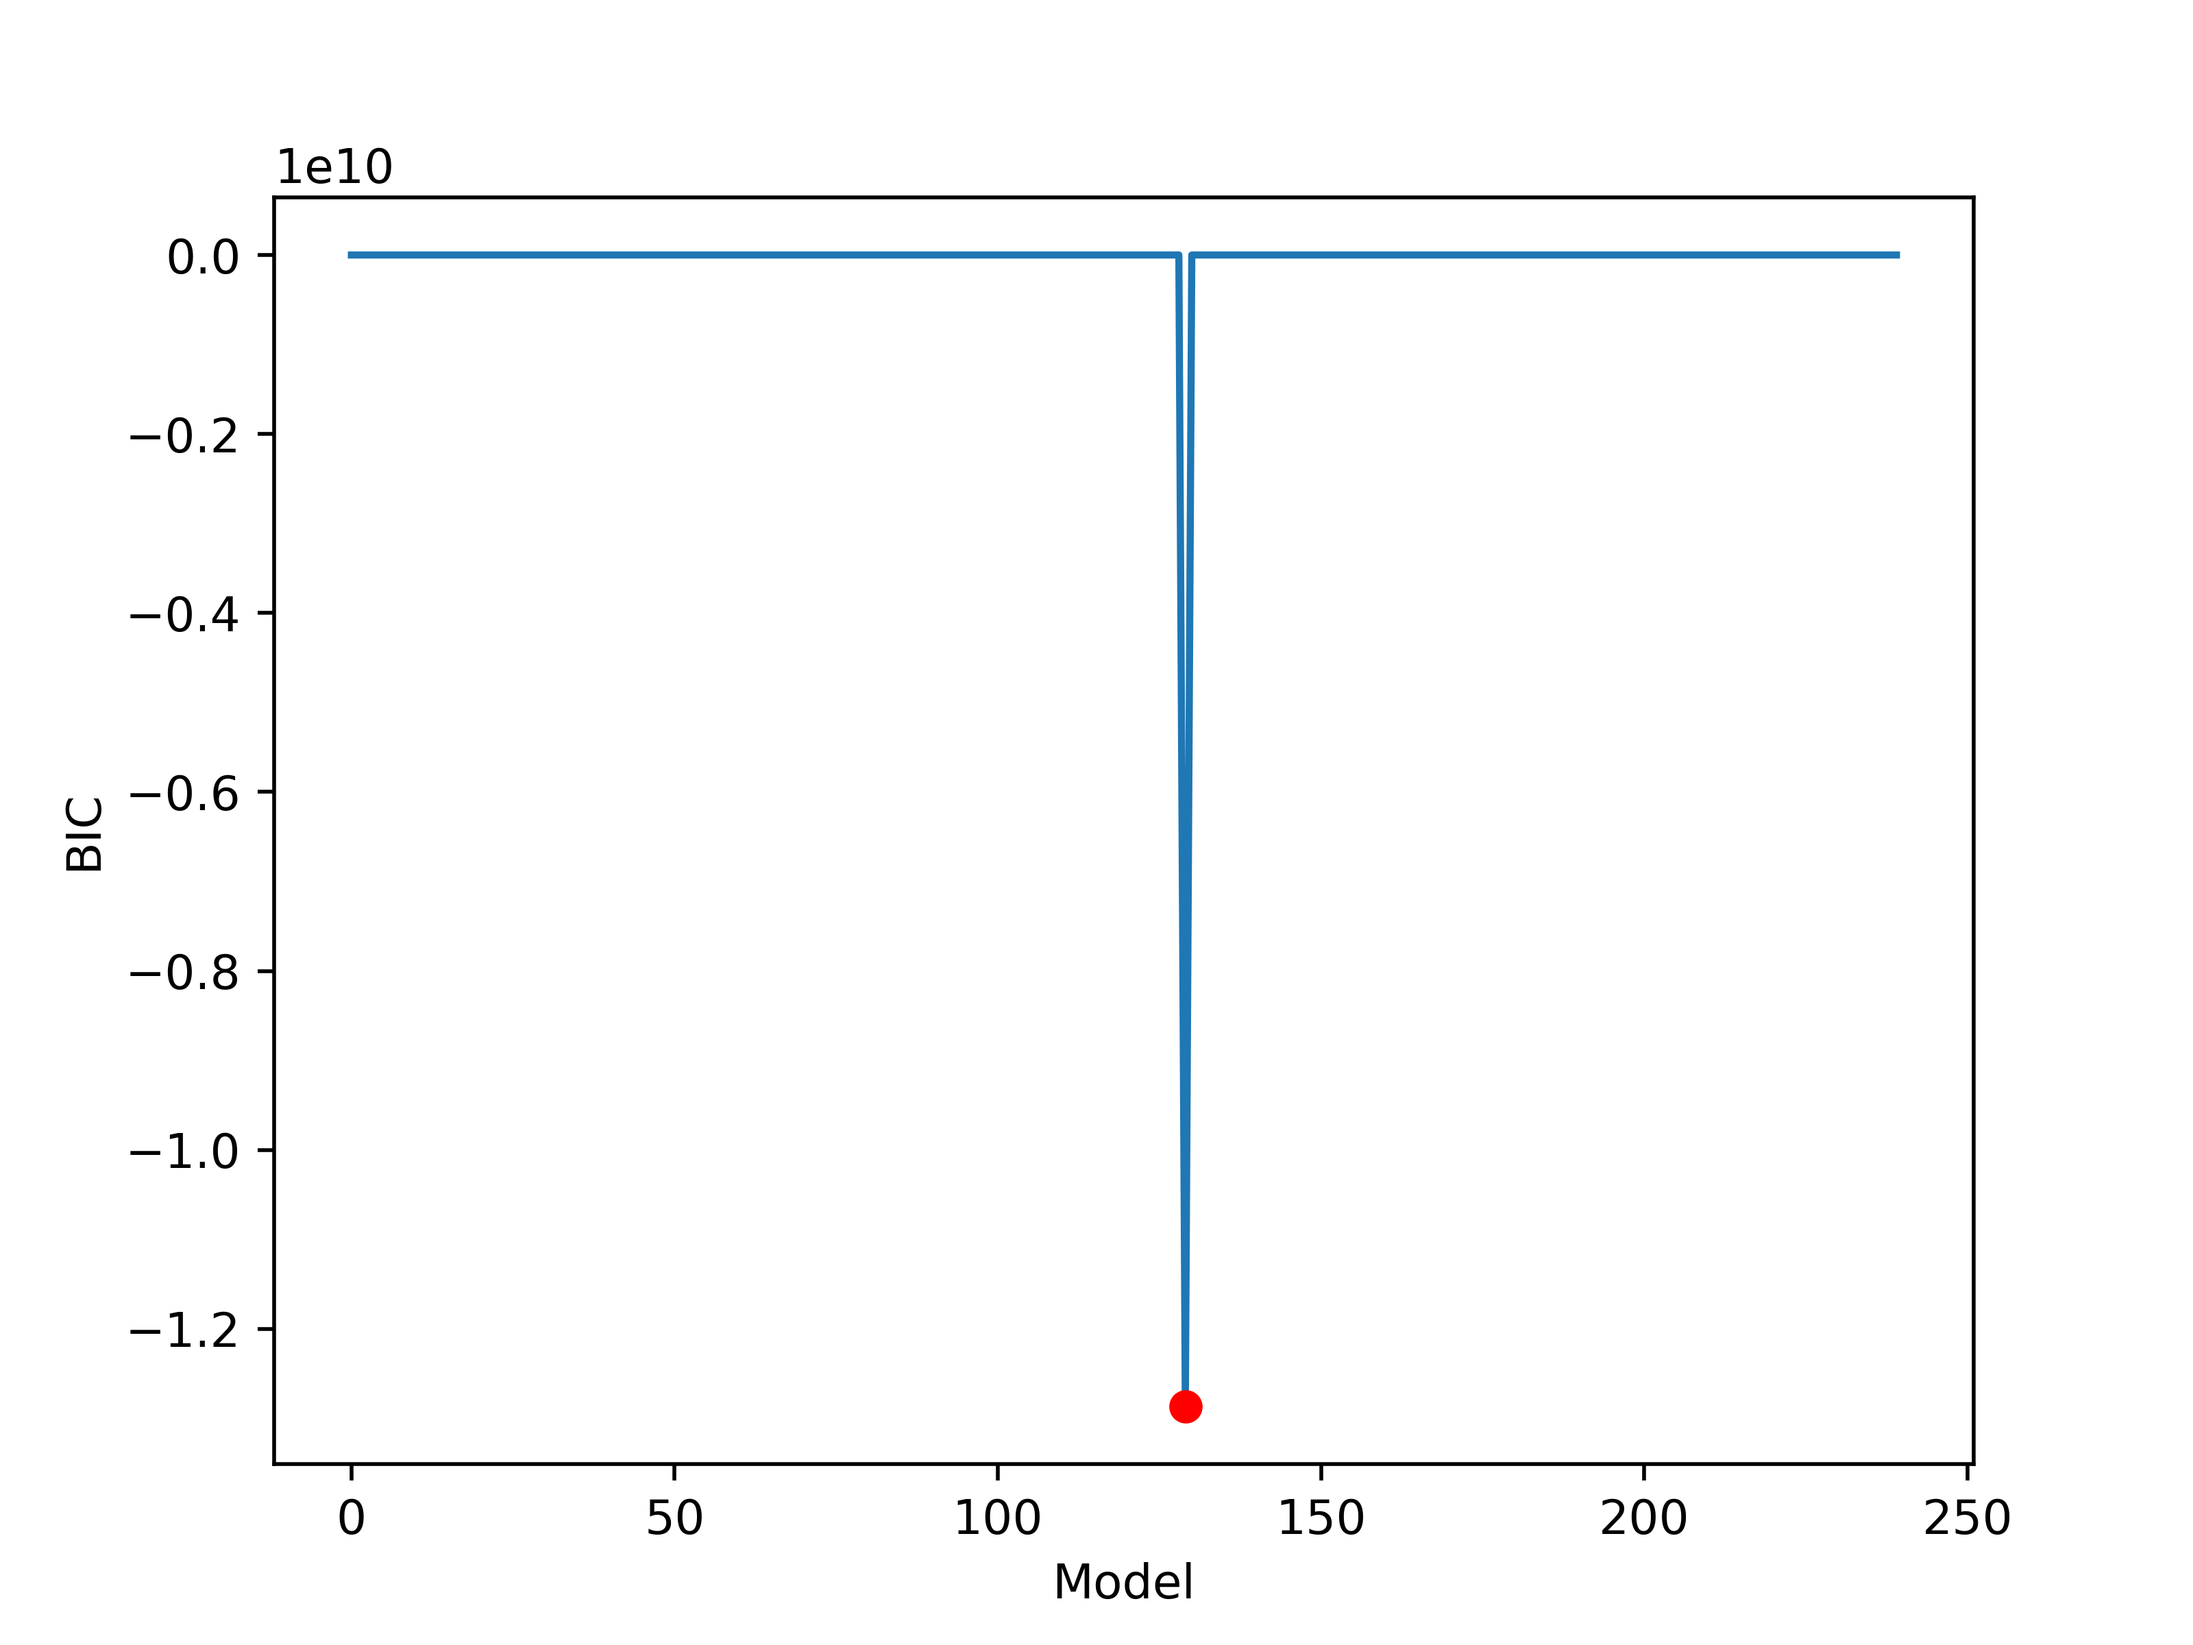
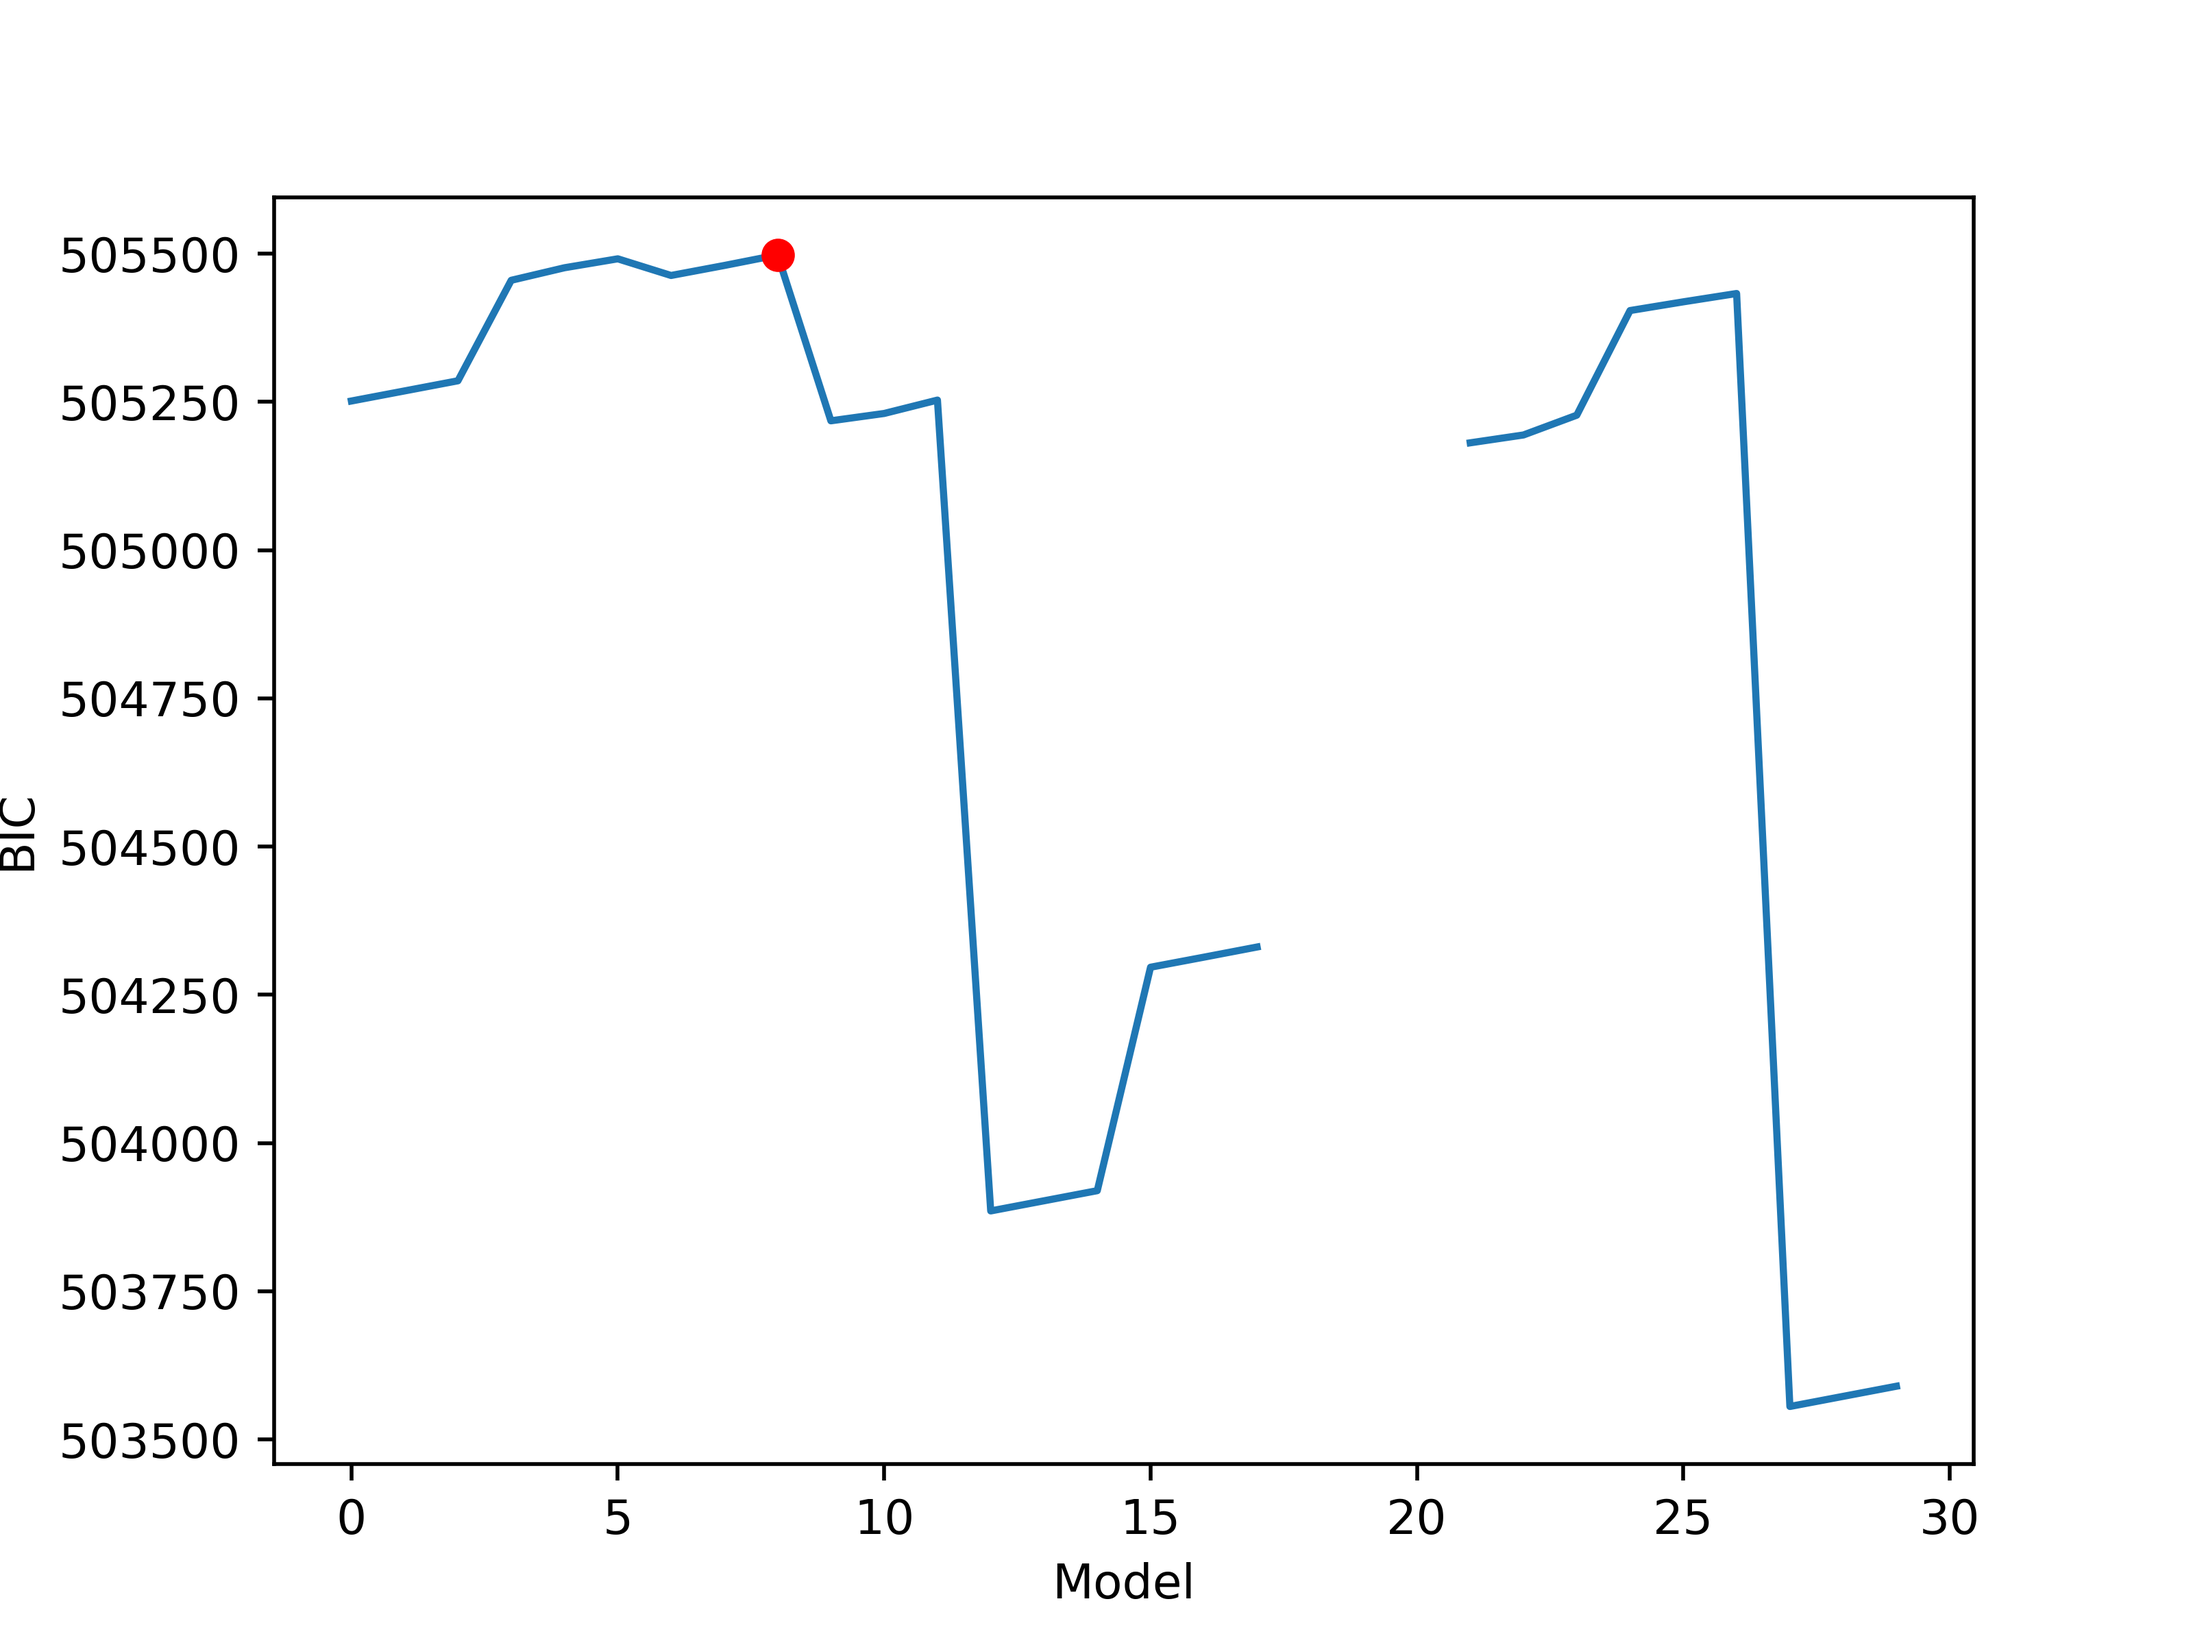
Made corrections discussed with Marc & fitted data produced by gMLV

diff --git a/GPFitScript.py b/GPFitScript.py
@@ -26,6 +26,7 @@ usage: GPFit.py [-h] -i INPUT [-o OUTPUT]
 # Import the necessary libraries
 import argparse
 import numpy as np
+import pretty_errors
 # Set the random seed for reproducibility
 # FIXME: This should be removed in the final version
 np.random.seed(0)
@@ -35,7 +36,7 @@ import sys
 import math
 import matplotlib.pyplot as plt
 import gpflow as gpf # This is the library that will be used to fit the Gaussian Process
-from gpflow.utilities import print_summary
+#from gpflow.utilities import print_summary
 from gpflow.utilities import parameter_dict
 from gpflow.ci_utils import reduce_in_tests
 gpf.config.set_default_float(np.float64)
@@ -88,19 +89,17 @@ def generateLibrary():
     kernelList = [gpf.kernels.SquaredExponential, gpf.kernels.Matern32, gpf.kernels.RationalQuadratic, gpf.kernels.Exponential, gpf.kernels.Linear,
            gpf.kernels.Cosine, gpf.kernels.Polynomial, gpf.kernels.Matern12, gpf.kernels.Matern52, gpf.kernels.White]
     # QUESTION: Is mean zero the same as no mean? or None?
-    meanList = [gpf.mean_functions.Constant(), gpf.mean_functions.Linear(), gpf.mean_functions.Identity(), gpf.mean_functions.Zero(), 
-                gpf.mean_functions.Polynomial(2), gpf.mean_functions.Polynomial(3), gpf.mean_functions.Polynomial(4), gpf.mean_functions.Polynomial(5)]
-    # TODO: keep on adding different mean functions
-    reduced_meanList = [None, gpf.mean_functions.Constant(), gpf.mean_functions.Identity(), gpf.mean_functions.Zero()]
-    latentList = [gpf.likelihoods.Gaussian(), gpf.likelihoods.StudentT()]
-    latent_processes = [1, 2, 3]
+    # NOTE: Decided to only try with the zero mean function
+    # meanList = [gpf.mean_functions.Constant(), gpf.mean_functions.Linear(), gpf.mean_functions.Identity(), gpf.mean_functions.Zero(), 
+    #             gpf.mean_functions.Polynomial(2), gpf.mean_functions.Polynomial(3), gpf.mean_functions.Polynomial(4), gpf.mean_functions.Polynomial(5)]
+    mean = gpf.mean_functions.Zero()
+    # NOTE: Decided to only try with the Gaussian likelihood
+    # latlaentList = [gpf.likelihoods.Gaussian(), gpf.likelihoods.StudentT()]
+    likelihood = gpf.likelihoods.Gaussian()
     # Define the list of all the possible combinations of kernel, mean, and latent processes
     library = []
     for kernel in kernelList:
-        # TODO: Change back to meanList after testing
-        for mean in reduced_meanList:
-            for latent in latentList:
-                library.append([kernel, mean, latent])
+        library.append([kernel, mean, likelihood])
     # Return the library
     return library
 
